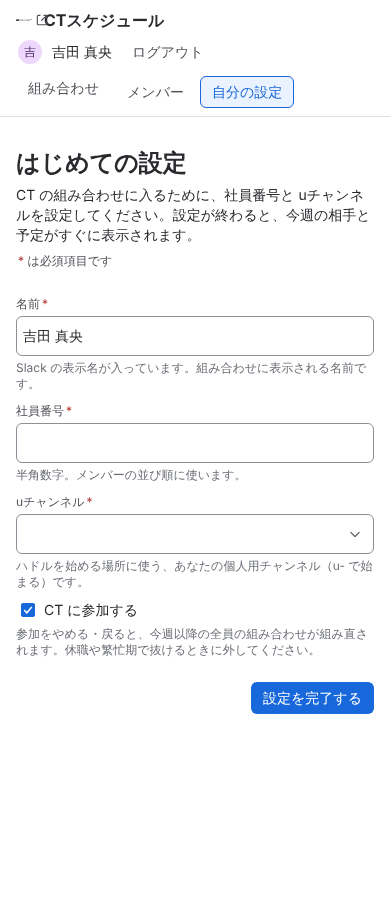
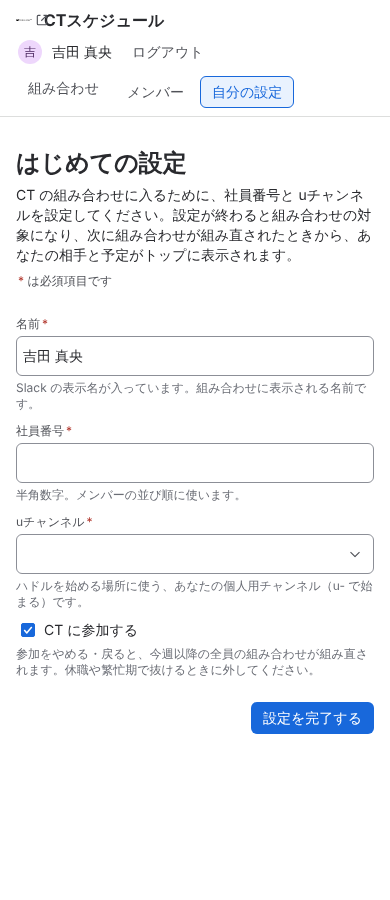
ads-ct-goal: 目標の自己評価と計測値、初回設定の文言を挙動に合わせて修正
Claude-Session: https://claude.ai/code/session_01UAQc34V6Va9jg1BkAkBgqp

Changed region(s): [[0.0308, 0.2178, 0.9846, 0.84]]

diff --git a/ads-ct-goal/src/pages/SettingsPage.tsx b/ads-ct-goal/src/pages/SettingsPage.tsx
@@ -71,7 +71,7 @@ export function SettingsPage({ me, firstTime, channels, employeeNo, preset, onSa
 								</Heading>
 								{firstTime ? (
 									<Text as="p">
-										CT の組み合わせに入るために、社員番号と uチャンネルを設定してください。設定が終わると、今週の相手と予定がすぐに表示されます。
+										CT の組み合わせに入るために、社員番号と uチャンネルを設定してください。設定が終わると組み合わせの対象になり、次に組み合わせが組み直されたときから、あなたの相手と予定がトップに表示されます。
 									</Text>
 								) : (
 									<Text as="p">変えられるのは自分の設定だけです。</Text>

diff --git a/ads-ct-goal/docs/goal-evaluation.md b/ads-ct-goal/docs/goal-evaluation.md
@@ -1,0 +1,110 @@
+# 目標の自己評価（G1〜G7）
+
+## 1. 評価の方法
+
+### 自分で決めた評価基準
+
+| 観点 | 基準 | この基準を選んだ理由 |
+| --- | --- | --- |
+| 操作量（G1・G2・G4〜G6） | 目的を果たすまでのクリック・入力の回数と、必要なスクロール量（px）を **1440×900 と 390×900** で数える | ブリーフの利用シーンは「数十秒で確認して通話」。時間を左右するのは操作の回数と探す量なので、直接数えられるものを使った |
+| ファーストビュー（G1・G2・G7） | 必要な要素の下端が 900px 以内に入るか（`scrollNeeded = max(0, 下端 − 900)`） | 「探さずにわかる」を、スクロールなしで目に入ることと定義した |
+| キーボード（G2） | ページ読み込みから「ハドルを始める」に Tab で何回で届くか | マウスを使わない人の操作量の目安 |
+| 状態の伝わり方（G5〜G7） | 各状態の画面に「何が起きたか」と「次の行動（ボタンや具体的な手順）」の両方があるか。文言を状態ごとに読んで確認 | ADS のメッセージ設計（原因＋次の行動、行き止まりを作らない）に合わせた |
+| ハーネスとの照合 | 使った部品が ADS の usage／content ガイドラインの「使う場面」に合っているか（`design-decisions.md` §4、`harness-report.md` §3） | ADS らしさの根拠 |
+| 機械的な検査 | axe（WCAG 2.1 A／AA）の違反数、横はみ出し、ADS 公式 lint の件数 | 自己判断に頼らない下限 |
+
+### 計測の仕組み
+
+- `scripts/measure.cjs`（Playwright。本番ビルドを `vite preview` で配信）→ 結果 `docs/measurements.json`
+- `scripts/capture.mjs`（ブリーフの撮影スクリプトの無改変コピー）→ `screenshots/Sxx-1440.png`／`Sxx-390.png`、`screenshots/report.json`、`docs/capture-report.txt`
+- lint：`harness-logs/lint/eslint-recommended.txt`（0 件）、`eslint-all.txt`（警告 4 件）
+
+### 機械的な検査の結果
+
+- axe（wcag2a・wcag2aa・wcag21aa）：**18 状態 × 2 幅 = 36 画面すべて違反 0**
+- 横はみ出し：**36 画面すべて 0px**
+- ADS lint：推奨設定 **0 件**（修正前は警告 7 件）、全ルール **警告 4 件**（Lozenge の新しい appearance 名への移行。現行の型が受け付けないため保留。`harness-report.md` §5）
+
+## 2. 結果の一覧
+
+| 目標 | 評価 | 確認できるスクリーンショット | 主な証拠（計測値） | 残る課題 |
+| --- | --- | --- | --- | --- |
+| G1 今週の相手がすぐわかる | ◎ | S01-1440／S01-390、S03、S04 | 相手の名前の下端：1440px で 281px、390px で 365px（スクロール 0、操作 0） | アイコン画像がある人の見え方は未確認（固定データに画像が無い） |
+| G2 すぐ通話を始められる | ◎ | S01、S09、S02 | 「ハドルを始める」下端：1440px で 375px、390px で 459px。クリック 1 回、Tab 7 回。未ログインからはクリック 2 回（ログイン → ハドル） | 実際の Slack 連携は無い（デモの Flag） |
+| G3 先の週の予定 | ○ | S01（右／下の「あなたの今後の予定」）、S03、S04 | 4 週分の自分の予定の最終行の下端：1440px で 421px、390px で 829px（どちらもスクロール 0）。「次のお休み」を 1 行で表示 | 5 週目以降は見せていない。全員分の先の週は下までスクロールが必要（390px でページの高さ 2,818px） |
+| G4 参加者の確認と安全な削除 | ○ | S11、S13、S14、S12 | 組み合わせ画面から削除完了まで 3 クリック。確認 Modal のタイトル「加藤 大輔さんを削除しますか？」。390px では対象の行までスクロール 415px | 誤って削除したときの取り消しが無い（仕様どおり「取り消せない」）。権限を全員に許した判断の妥当性は実運用で確認が必要 |
+| G5 参加状況を変え、影響が伝わる | ○ | S17（設定画面）、S10 | 組み合わせ画面から 3 クリック（設定 → チェックを外す → 保存）。保存前に警告「保存すると組み合わせが組み直されます」が出る。保存後は組み合わせ画面に戻り成功 Flag、主役カードが「今週の組み合わせに入っていません」に変わる | デモでは他の人のペアは組み直さない（固定データ）。「誰の相手がどう変わるか」までは示せていない |
+| G6 初回設定で迷わない | ○ | S15、S16 | 名前は Slack の表示名で埋まっているので、入力 2 つ（社員番号・uチャンネル）＋送信 1 回。送信ボタンの下端：1440px で 618px、390px で 734px（スクロール 0）。完了後は組み合わせ画面へ戻る | 設定直後は今週の組み合わせにまだ入っていない（組み直しを待つ）。実ユーザーでの迷いは未検証 |
+| G7 どの状態でも次の行動がわかる | ◎ | S05〜S08、S12、S14、S16〜S18 | 18 状態すべてで「何が起きたか」と「次の行動」を文言で確認（下の §3 G7）。行き止まり 0 | 読み込み中（S06）に経過時間や中止の手段は無い |
+
+評価記号：◎＝計測と画面の両方で目標どおり、○＝達成しているが条件つき・課題あり、△＝一部のみ、×＝未達成。
+
+## 3. 目標ごとの論証
+
+### G1 開いてすぐ「今週、自分は誰と話すか」がわかる
+
+- **設計上の意図**：利用者は月曜に Slack の投稿から来て数十秒で去る。だから画面の主役は「今週のあなたの相手」ひとつに絞り、ページの最上部に置く。他の情報（全員のペア、先の週）は主役の下に回す。ハーネスからは「大きさと余白で順位をつける」「すべてを同じ重さにしない」を借りた（主役の選定そのものは自分の判断）。
+- **画面の要素**：`今週の CT` 見出しの直下に、太い brand 色の枠（`border.width.selected`／`color.border.brand`）のカード。xlarge のアバター、`Heading xlarge` の「高橋 健太さん」、「14:00 から」。日付と開始時刻は見出しの下に 1 行。
+- **証拠**：S01-1440.png／S01-390.png。名前の下端は 1440px で 281px、390px で 365px（`measurements.json` の `S01.partnerName`）。どちらもスクロール 0・操作 0。
+- **他の状態**：自分がお休み（S03）は同じ場所に「今週はお休みです」と次の CT（10月19日、小林 結衣さん）。祝日の週（S04）は「今週は CT がありません」と祝日名と次の CT。どちらも主役の場所を変えないので、見る場所が一定。
+
+### G2 その相手との通話をすぐ始められる
+
+- **設計上の意図**：相手の名前の直下（近接）に、ページで唯一の primary ボタンを置く。押したときにどこへ行くか不安が無いよう、ハドルの場所（#u-misaki）を書く。2 人が別々のチャンネルでハドルを始めてしまわないよう、場所は「ペアのうち社員番号が小さい人の uチャンネル」に決めた。
+- **画面の要素**：「ハドルを始める」（primary、ヘッドホンのアイコン）と「#u-misaki で始まります。高橋 健太さんも同じチャンネルに入ります。」
+- **証拠**：ボタンの下端は 1440px で 375px、390px で 459px（スクロール 0）。クリック 1 回で「#u-misaki でハドルを始めます（デモ）」の Flag が出る（`huddleFeedbackShown: true`）。Tab 7 回で届く（ロゴ → ナビ 3 つ → ログアウト → メンバーを見る → ハドル）。未ログイン（S02）では同じ場所の「Slack でログイン」から 2 クリック。
+- **相手の uチャンネルが未設定（S09）**：ボタンを出さず、同じ場所に warning の SectionMessage「ハドルを始められません」と、代わりの行動（Slack で直接連絡）。警告の見出しの下端は 1440px で 379px、390px で 463px。
+
+### G3 先の週の予定を確かめられる
+
+- **設計上の意図**：「来週は誰か」「次のお休みはいつか」は自分にしか関係しないので、全員の表から探させず、自分だけの 1 週 1 行のリストにする。先の週は確定ではないので「予定」と書き、組み直しがあることを一文で添える。
+- **画面の要素**：「あなたの今後の予定」（1024px 以上は主役の右、未満は主役の下）。各行に日付・Lozenge（来週・予定／予定／CT なし）・相手。冒頭に「次のお休み：…」。全員分は「今後の予定」セクションに週ごと。
+- **証拠**：最終行の下端は 1440px で 421px、390px で 829px（スクロール 0）。S03 では「次のお休み」の表示と主役カードの「次の CT」で先の予定がわかる。
+- **○ にした理由**：見せる範囲は 4 週先まで（固定データの範囲）。全員分の先の週は 390px だと長いスクロールになる。
+
+### G4 誰が組み合わせに入っているかを確かめ、いなくなった人を安全に外せる
+
+- **設計上の意図**：一覧は社員番号順、参加／不参加／初回設定未完了を Lozenge（文字つき）で区別。人数は見出しの下に「参加 9 人・不参加 2 人」と文で書く。削除は取り消せないので、Modal で「誰を」（アバター・名前・チャンネル）「何が起きるか」（参加者なら組み合わせが組み直される）「取り消せない」を書き、danger の「削除する」で確定。結果は Flag。
+- **証拠**：S11（一覧）、S13（確認）、S14（失敗 Flag、「もう一度削除する」つき）。組み合わせ画面から 3 クリックで削除完了、成功 Flag を確認（`G4.successFlag: true`）。各削除ボタンのアクセシブルな名前は「○○さんを削除」。
+- **○ にした理由**：390px では一覧の下の方の人までスクロール（415px）が要る。削除権限を全員に許したのは自分の判断で、運用で確かめる必要がある。
+
+### G5 自分の参加状況を変えられ、その影響が伝わる
+
+- **設計上の意図**：影響は「保存した後」ではなく「保存する前」に伝える。チェックを変えた瞬間に、すぐ下へ warning の SectionMessage を出す（ADS：warning は将来起きる変化の事前通知）。保存後は組み合わせ画面に戻し、主役カードが変わったことを見せる。
+- **証拠**：組み合わせ画面から 3 クリック。チェックを外した時点で警告が出る（`warningShownBeforeSave: true`）。保存後は `/` に戻り、成功 Flag と「今週の組み合わせに入っていません」（`heroAfterLeaving: true`）。S17 は保存失敗時、入力を残したまま「もう一度保存する」。
+- **○ にした理由**：固定データを使うため、他の人のペアの組み直しは画面に出ない。
+
+### G6 初めての人が迷わず必要な設定を終えられる
+
+- **設計上の意図**：初回ログインした人には組み合わせ画面の代わりに「はじめての設定」を出す。冒頭で「何のための設定か」「終わると何が見えるか」を書く（ADS の新規ユーザー向けの語調）。名前は Slack の表示名で埋めておき、入力は 2 つだけ。送信ボタンは無効化せず、足りない項目は送信時に項目ごとに知らせる。
+- **証拠**：S15（未入力）、S16（送信後のエラー：「社員番号を入力してください」「uチャンネルを選んでください」、最初のエラー項目にフォーカス）。入力 2＋送信 1 で完了し、組み合わせ画面に戻って成功 Flag（`G6.backOnHome: true`、`successFlag: true`）。送信ボタンはスクロール 0。
+- **○ にした理由**：完了直後の主役カードは「今週の組み合わせにはまだ入っていません」（組み直し待ち）で、設定を終えても今週の相手はすぐには見えない。冒頭の文言は実装後の確認でこの挙動に合わせて直した（「次に組み合わせが組み直されたときから…表示されます」）。
+
+### G7 どんな状態でも、何が起きていて次に何をすればよいかがわかる
+
+| 状態 | 何が起きているか（画面の文言） | 次の行動 |
+| --- | --- | --- |
+| S05 参加者が 2 人未満 | 「今週の組み合わせはありません」「参加者が 1 人のため、組み合わせを作れません」 | 「メンバーを見る」 |
+| S06 読み込み中 | Spinner＋「組み合わせとメンバーを読み込んでいます…」 | 待つ |
+| S07 読み込み失敗 | 「組み合わせを読み込めませんでした」 | 「もう一度読み込む」、続くときは Slack の投稿を確認 |
+| S08 ログイン失敗 | 「Slack でログインできませんでした」 | 「もう一度ログインする」。組み合わせはそのまま下で見られる |
+| S09 相手の uチャンネル未設定 | 「ハドルを始められません」と理由 | Slack で直接連絡 |
+| S12 メンバー 0 人 | 「まだメンバーがいません」 | 「Slack でログイン」 |
+| S14 削除失敗 | 「加藤 大輔さんを削除できませんでした」「一覧はそのまま」 | 「もう一度削除する」 |
+| S16 必須未入力 | 項目ごとのエラー | 入力して再送信 |
+| S17 保存失敗 | 「設定を保存できませんでした」「入力は残っている」 | 「もう一度保存する」 |
+| S18 存在しないページ | 「ページが見つかりません」 | 「組み合わせを見る」 |
+
+- **証拠**：各状態のスクリーンショット（1440／390）。失敗系の表示はすべて 1440px・390px のファーストビュー内。
+
+## 4. 評価の限界
+
+| 測れていないこと | なぜ問題か | どう検証すべきか |
+| --- | --- | --- |
+| 実ユーザーでの確認 | 「迷わない」「すぐわかる」は本人の感じ方。計測はクリック数と位置だけ | 月曜の CT 前に 5〜8 人へ、Slack の投稿からの操作を観察（ハドル開始までの時間、迷った箇所） |
+| スクリーンリーダー | axe は構造の機械検査だけ。読み上げ順や Flag の通知が自然かはわからない | VoiceOver（iOS／macOS）と NVDA で S01・S09・S13・S16 を操作。Flag の読み上げ、Modal のフォーカス移動、エラーの通知を確認 |
+| 実際の Slack 連携 | ハドル・ログインはデモの通知だけ | Slack のディープリンクで、ペアの 2 人が同じハドルに入れるかを実機で確認 |
+| 組み合わせの組み直し | 固定データのため、参加の変更や削除の影響（他の人のペアの変化）を画面で示せていない | 計算を実装し、変更前後の差分を見せる案を検討 |
+| アイコン画像がある人 | 固定データに画像が無く、頭文字の表示しか確認していない | 画像あり・読み込み失敗の両方を撮影 |
+| 200% 拡大・ダークモード | 撮影条件に含まれない | ブラウザ拡大と `colorMode: "dark"` で撮影 |
+| 自己評価の偏り | 設計者自身が評価している | 別の人（または別のエージェント）にブリーフだけ渡して評価してもらう |
